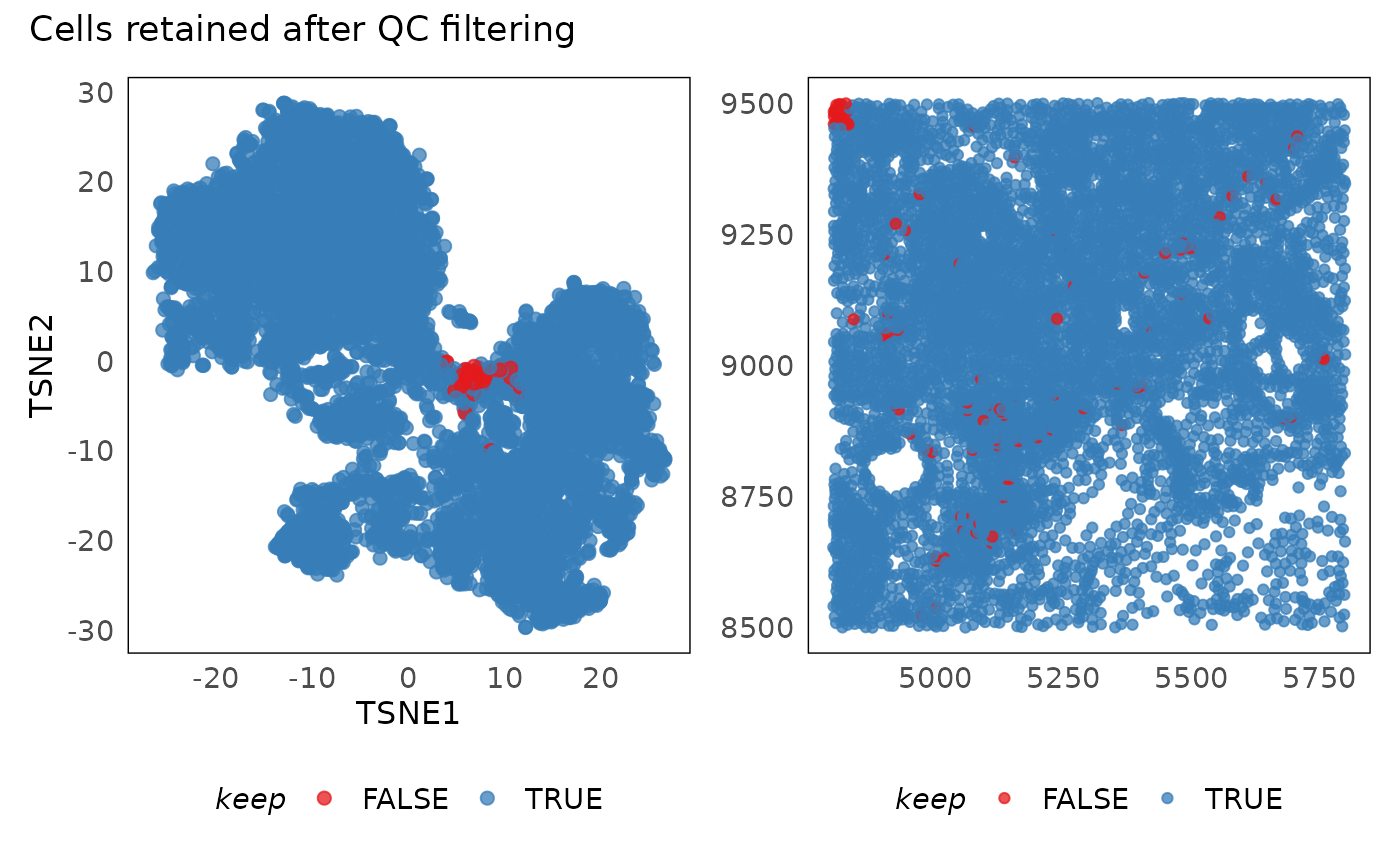
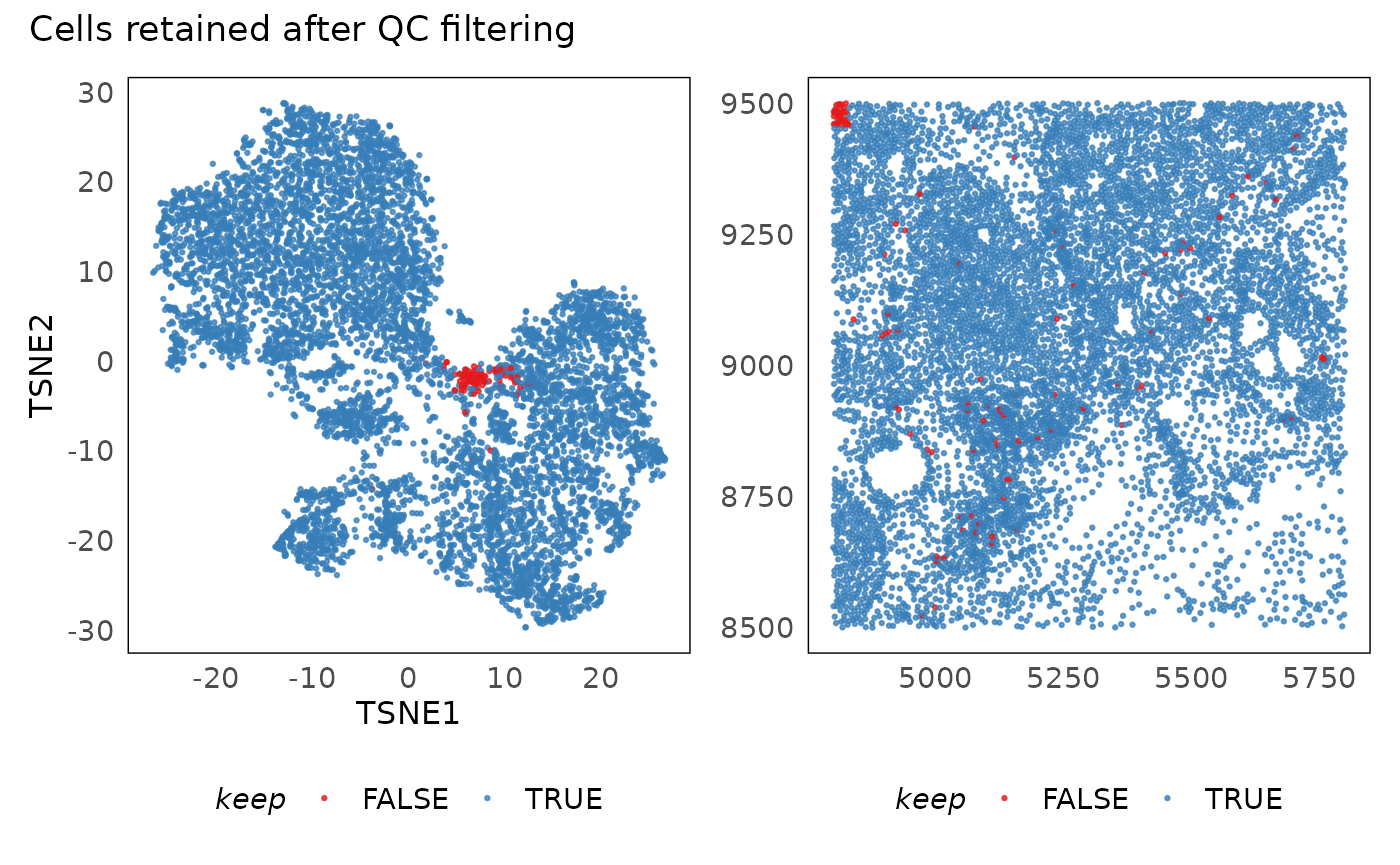
Deploying to gh-pages from @ bhuvad/XeniumSpatialAnalysisWorkshop@5bf16d5a921d2b34351f34f19f630a36b05e63fe 🚀

diff --git a/articles/workflow_spatial_xenium.html b/articles/workflow_spatial_xenium.html
@@ -82,12 +82,15 @@ transcriptomics analysis (10x Xenium breast cancer)</h1>
                         <h4 data-toc-skip class="author">Dharmesh D.
 Bhuva</h4>
             <address class="author_afil">
-      truetruetrue<br><a class="author_email" href="mailto:#"></a><a href="mailto:dharmesh.bhuva@adelaide.edu.au" class="email">dharmesh.bhuva@adelaide.edu.au</a>
+      SAiGENCI, The University of AdelaideSouth Australian Health and
+Medical Research Institute (SAHMRI)Walter and Eliza Hall
+Institute<br><a class="author_email" href="mailto:#"></a><a href="mailto:dharmesh.bhuva@adelaide.edu.au" class="email">dharmesh.bhuva@adelaide.edu.au</a>
       </address>
                               <h4 data-toc-skip class="author">Chin Wee
 Tan</h4>
             <address class="author_afil">
-      truetrue<br><a class="author_email" href="mailto:#"></a><a href="mailto:cwtan@wehi.edu.au" class="email">cwtan@wehi.edu.au</a>
+      Walter and Eliza Hall InstituteThe University of
+Melbourne<br><a class="author_email" href="mailto:#"></a><a href="mailto:cwtan@wehi.edu.au" class="email">cwtan@wehi.edu.au</a>
       </address>
                   
             <h4 data-toc-skip class="date">Nov 2024</h4>
@@ -98,10 +101,6 @@ Tan</h4>
     </div>
 
     
-        <div class="abstract">
-      <p class="abstract">Abstract</p>
-      <p>Abstract</p>
-    </div>
     
 <p>
 </p>
@@ -121,7 +120,7 @@ version</strong>: 0.99.0</p>
 <h2 id="loading-prepared-the-data">Loading prepared the data<a class="anchor" aria-label="anchor" href="#loading-prepared-the-data"></a>
 </h2>
 <div class="float">
-<img src="inst/extdata/full_tissue.png" alt="Full IDC"><div class="figcaption">Full IDC</div>
+<img src="https://raw.githubusercontent.com/bhuvad/XeniumSpatialAnalysisWorkshop/refs/heads/main/inst/extdata/full_tissue.png" alt="Full IDC"><div class="figcaption">Full IDC</div>
 </div>
 <p>x coordinate is in the interval (4800, 5800) and the y coordinate is
 in the interval (8500, 9500)</p>
@@ -210,7 +209,9 @@ in the interval (8500, 9500)</p>
 <span><span class="co">## THY1           .          .          .          .          1</span></span>
 <span><span class="co">## CXCR4          1          .          .          .          .</span></span></code></pre>
 <div class="sourceCode" id="cb11"><pre class="downlit sourceCode r">
-<code class="sourceCode R"><span><span class="fu">plotSpatial</span><span class="op">(</span><span class="va">idc</span>, colour <span class="op">=</span> <span class="va">region</span><span class="op">)</span> <span class="op">+</span></span>
+<code class="sourceCode R"><span><span class="co"># set default point size to 0.5 for this report</span></span>
+<span><span class="fu">update_geom_defaults</span><span class="op">(</span>geom <span class="op">=</span> <span class="st">"point"</span>, new <span class="op">=</span> <span class="fu"><a href="https://rdrr.io/r/base/list.html" class="external-link">list</a></span><span class="op">(</span>size <span class="op">=</span> <span class="fl">0.5</span><span class="op">)</span><span class="op">)</span></span>
+<span><span class="fu">plotSpatial</span><span class="op">(</span><span class="va">idc</span>, colour <span class="op">=</span> <span class="va">region</span><span class="op">)</span> <span class="op">+</span></span>
 <span>  <span class="fu">scale_colour_brewer</span><span class="op">(</span>palette <span class="op">=</span> <span class="st">"Dark2"</span><span class="op">)</span></span></code></pre></div>
 <p><img src="workflow_spatial_xenium_files/figure-html/unnamed-chunk-2-1.png" width="700"></p>
 <p>For users interested in analysing the whole dataset, it can be
@@ -332,7 +333,7 @@ poor quality. As such, we can start with these thresholds and adjust
 based on other metrics and visualisations.</p>
 <div class="sourceCode" id="cb18"><pre class="downlit sourceCode r">
 <code class="sourceCode R"><span><span class="co"># t-SNE plot</span></span>
-<span><span class="va">p1</span> <span class="op">=</span> <span class="fu">plotDR</span><span class="op">(</span><span class="va">idc</span>, dimred <span class="op">=</span> <span class="st">"TSNE"</span>, colour <span class="op">=</span> <span class="va">sum</span>, alpha <span class="op">=</span> <span class="fl">0.75</span><span class="op">)</span> <span class="op">+</span></span>
+<span><span class="va">p1</span> <span class="op">=</span> <span class="fu">plotDR</span><span class="op">(</span><span class="va">idc</span>, dimred <span class="op">=</span> <span class="st">"TSNE"</span>, colour <span class="op">=</span> <span class="va">sum</span>, alpha <span class="op">=</span> <span class="fl">0.75</span>, size <span class="op">=</span> <span class="fl">0.5</span><span class="op">)</span> <span class="op">+</span></span>
 <span>  <span class="fu">scale_colour_viridis_c</span><span class="op">(</span>option <span class="op">=</span> <span class="st">"F"</span><span class="op">)</span> <span class="op">+</span></span>
 <span>  <span class="fu">labs</span><span class="op">(</span>x <span class="op">=</span> <span class="st">"TSNE1"</span>, y <span class="op">=</span> <span class="st">"TSNE2"</span><span class="op">)</span> <span class="op">+</span></span>
 <span>  <span class="fu">theme</span><span class="op">(</span>legend.position <span class="op">=</span> <span class="st">"bottom"</span><span class="op">)</span></span>
@@ -344,7 +345,7 @@ based on other metrics and visualisations.</p>
 <p><img src="workflow_spatial_xenium_files/figure-html/unnamed-chunk-8-1.png" width="700"></p>
 <div class="sourceCode" id="cb19"><pre class="downlit sourceCode r">
 <code class="sourceCode R"><span><span class="co"># t-SNE plot</span></span>
-<span><span class="va">p1</span> <span class="op">=</span> <span class="fu">plotDR</span><span class="op">(</span><span class="va">idc</span>, dimred <span class="op">=</span> <span class="st">"TSNE"</span>, colour <span class="op">=</span> <span class="va">detected</span>, alpha <span class="op">=</span> <span class="fl">0.75</span><span class="op">)</span> <span class="op">+</span></span>
+<span><span class="va">p1</span> <span class="op">=</span> <span class="fu">plotDR</span><span class="op">(</span><span class="va">idc</span>, dimred <span class="op">=</span> <span class="st">"TSNE"</span>, colour <span class="op">=</span> <span class="va">detected</span>, alpha <span class="op">=</span> <span class="fl">0.75</span>, size <span class="op">=</span> <span class="fl">0.5</span><span class="op">)</span> <span class="op">+</span></span>
 <span>  <span class="fu">scale_colour_viridis_c</span><span class="op">(</span>option <span class="op">=</span> <span class="st">"F"</span><span class="op">)</span> <span class="op">+</span></span>
 <span>  <span class="fu">labs</span><span class="op">(</span>x <span class="op">=</span> <span class="st">"TSNE1"</span>, y <span class="op">=</span> <span class="st">"TSNE2"</span><span class="op">)</span> <span class="op">+</span></span>
 <span>  <span class="fu">theme</span><span class="op">(</span>legend.position <span class="op">=</span> <span class="st">"bottom"</span><span class="op">)</span></span>
@@ -356,7 +357,7 @@ based on other metrics and visualisations.</p>
 <p><img src="workflow_spatial_xenium_files/figure-html/unnamed-chunk-9-1.png" width="700"></p>
 <div class="sourceCode" id="cb20"><pre class="downlit sourceCode r">
 <code class="sourceCode R"><span><span class="co"># t-SNE plot</span></span>
-<span><span class="va">p1</span> <span class="op">=</span> <span class="fu">plotDR</span><span class="op">(</span><span class="va">idc</span>, dimred <span class="op">=</span> <span class="st">"TSNE"</span>, colour <span class="op">=</span> <span class="va">qv</span>, alpha <span class="op">=</span> <span class="fl">0.75</span><span class="op">)</span> <span class="op">+</span></span>
+<span><span class="va">p1</span> <span class="op">=</span> <span class="fu">plotDR</span><span class="op">(</span><span class="va">idc</span>, dimred <span class="op">=</span> <span class="st">"TSNE"</span>, colour <span class="op">=</span> <span class="va">qv</span>, alpha <span class="op">=</span> <span class="fl">0.75</span>, size <span class="op">=</span> <span class="fl">0.5</span><span class="op">)</span> <span class="op">+</span></span>
 <span>  <span class="fu">scale_colour_viridis_c</span><span class="op">(</span>option <span class="op">=</span> <span class="st">"F"</span><span class="op">)</span> <span class="op">+</span></span>
 <span>  <span class="fu">labs</span><span class="op">(</span>x <span class="op">=</span> <span class="st">"TSNE1"</span>, y <span class="op">=</span> <span class="st">"TSNE2"</span><span class="op">)</span> <span class="op">+</span></span>
 <span>  <span class="fu">theme</span><span class="op">(</span>legend.position <span class="op">=</span> <span class="st">"bottom"</span><span class="op">)</span></span>
@@ -368,7 +369,7 @@ based on other metrics and visualisations.</p>
 <p><img src="workflow_spatial_xenium_files/figure-html/unnamed-chunk-10-1.png" width="700"></p>
 <div class="sourceCode" id="cb21"><pre class="downlit sourceCode r">
 <code class="sourceCode R"><span><span class="co"># t-SNE plot</span></span>
-<span><span class="va">p1</span> <span class="op">=</span> <span class="fu">plotDR</span><span class="op">(</span><span class="va">idc</span>, dimred <span class="op">=</span> <span class="st">"TSNE"</span>, colour <span class="op">=</span> <span class="va">overlaps_nucleus</span>, alpha <span class="op">=</span> <span class="fl">0.75</span><span class="op">)</span> <span class="op">+</span></span>
+<span><span class="va">p1</span> <span class="op">=</span> <span class="fu">plotDR</span><span class="op">(</span><span class="va">idc</span>, dimred <span class="op">=</span> <span class="st">"TSNE"</span>, colour <span class="op">=</span> <span class="va">overlaps_nucleus</span>, alpha <span class="op">=</span> <span class="fl">0.75</span>, size <span class="op">=</span> <span class="fl">0.5</span><span class="op">)</span> <span class="op">+</span></span>
 <span>  <span class="fu">scale_colour_viridis_c</span><span class="op">(</span>option <span class="op">=</span> <span class="st">"F"</span><span class="op">)</span> <span class="op">+</span></span>
 <span>  <span class="fu">labs</span><span class="op">(</span>x <span class="op">=</span> <span class="st">"TSNE1"</span>, y <span class="op">=</span> <span class="st">"TSNE2"</span><span class="op">)</span> <span class="op">+</span></span>
 <span>  <span class="fu">theme</span><span class="op">(</span>legend.position <span class="op">=</span> <span class="st">"bottom"</span><span class="op">)</span></span>
@@ -398,7 +399,7 @@ under- filtering.</p>
 <span><span class="va">idc</span><span class="op">$</span><span class="va">keep</span> <span class="op">=</span> <span class="va">idc</span><span class="op">$</span><span class="va">sum</span> <span class="op">&gt;</span> <span class="va">thresh_sum</span> <span class="op">&amp;</span> <span class="va">idc</span><span class="op">$</span><span class="va">detected</span> <span class="op">&gt;</span> <span class="va">thresh_detected</span></span>
 <span></span>
 <span><span class="co"># t-SNE plot</span></span>
-<span><span class="va">p1</span> <span class="op">=</span> <span class="fu">plotDR</span><span class="op">(</span><span class="va">idc</span>, dimred <span class="op">=</span> <span class="st">"TSNE"</span>, colour <span class="op">=</span> <span class="va">keep</span>, alpha <span class="op">=</span> <span class="fl">0.75</span><span class="op">)</span> <span class="op">+</span></span>
+<span><span class="va">p1</span> <span class="op">=</span> <span class="fu">plotDR</span><span class="op">(</span><span class="va">idc</span>, dimred <span class="op">=</span> <span class="st">"TSNE"</span>, colour <span class="op">=</span> <span class="va">keep</span>, alpha <span class="op">=</span> <span class="fl">0.75</span>, size <span class="op">=</span> <span class="fl">0.5</span><span class="op">)</span> <span class="op">+</span></span>
 <span>  <span class="fu">scale_color_brewer</span><span class="op">(</span>palette <span class="op">=</span> <span class="st">"Set1"</span><span class="op">)</span> <span class="op">+</span></span>
 <span>  <span class="fu">labs</span><span class="op">(</span>x <span class="op">=</span> <span class="st">"TSNE1"</span>, y <span class="op">=</span> <span class="st">"TSNE2"</span><span class="op">)</span> <span class="op">+</span></span>
 <span>  <span class="fu">theme</span><span class="op">(</span>legend.position <span class="op">=</span> <span class="st">"bottom"</span><span class="op">)</span></span>
@@ -466,7 +467,7 @@ spatial dependence to decouple technical and biological effects. SpaNorm
 uses a spatially constrained regularised generalised linear model to
 model library size effects and subsequently adjust the data.</p>
 <div class="float">
-<img src="https://github.com/bhuvad/SpaNorm/blob/master/vignettes/SpaNormWorkflow.png" alt="SpaNorm schematic"><div class="figcaption">SpaNorm schematic</div>
+<img src="https://raw.githubusercontent.com/bhuvad/SpaNorm/refs/heads/master/vignettes/SpaNormWorkflow.png" alt="SpaNorm schematic"><div class="figcaption">SpaNorm schematic</div>
 </div>
 <p>The key parameters for SpaNorm normalisation that need to be adjusted
 are:</p>
@@ -633,7 +634,7 @@ variation is minimal within this range.</li>
 <span><span class="va">idc</span> <span class="op">=</span> <span class="fu">Banksy</span><span class="fu">::</span><span class="fu"><a href="https://rdrr.io/pkg/Banksy/man/clusterBanksy.html" class="external-link">clusterBanksy</a></span><span class="op">(</span><span class="va">idc</span>, lambda <span class="op">=</span> <span class="va">lambda</span>, npcs <span class="op">=</span> <span class="va">npcs</span>, resolution <span class="op">=</span> <span class="va">res</span><span class="op">)</span></span>
 <span></span>
 <span><span class="fu">plotSpatial</span><span class="op">(</span><span class="va">idc</span>, colour <span class="op">=</span> <span class="va">clust_M0_lam0.2_k50_res0.8</span>, alpha <span class="op">=</span> <span class="fl">0.75</span><span class="op">)</span> <span class="op">+</span></span>
-<span>  <span class="fu">scale_colour_brewer</span><span class="op">(</span>palette <span class="op">=</span> <span class="st">"Paired"</span>, na.value <span class="op">=</span> <span class="st">"#333333"</span><span class="op">)</span> <span class="op">+</span></span>
+<span>  <span class="fu">scale_colour_brewer</span><span class="op">(</span>palette <span class="op">=</span> <span class="st">"Paired"</span>, na.value <span class="op">=</span> <span class="st">"#333333"</span>, name <span class="op">=</span> <span class="st">"cluster"</span><span class="op">)</span> <span class="op">+</span></span>
 <span>  <span class="fu">ggtitle</span><span class="op">(</span><span class="st">"Mean from SpaNorm model"</span><span class="op">)</span> <span class="op">+</span></span>
 <span>  <span class="fu">theme</span><span class="op">(</span>legend.position <span class="op">=</span> <span class="st">"bottom"</span><span class="op">)</span></span></code></pre></div>
 <p><img src="workflow_spatial_xenium_files/figure-html/unnamed-chunk-20-1.png" width="700"></p>
@@ -654,7 +655,7 @@ label manually. We also find cluster 4 which represents a boundary of
 cells surrounding invasive and DCIS lesions.</p>
 <div class="sourceCode" id="cb34"><pre class="downlit sourceCode r">
 <code class="sourceCode R"><span><span class="va">p1</span> <span class="op">=</span> <span class="fu">plotSpatial</span><span class="op">(</span><span class="va">idc</span>, colour <span class="op">=</span> <span class="va">clust_M0_lam0.2_k50_res0.8</span>, alpha <span class="op">=</span> <span class="fl">0.75</span><span class="op">)</span> <span class="op">+</span></span>
-<span>  <span class="fu">scale_colour_brewer</span><span class="op">(</span>palette <span class="op">=</span> <span class="st">"Paired"</span>, na.value <span class="op">=</span> <span class="st">"#333333"</span><span class="op">)</span> <span class="op">+</span></span>
+<span>  <span class="fu">scale_colour_brewer</span><span class="op">(</span>palette <span class="op">=</span> <span class="st">"Paired"</span>, na.value <span class="op">=</span> <span class="st">"#333333"</span>, name <span class="op">=</span> <span class="st">"cluster"</span><span class="op">)</span> <span class="op">+</span></span>
 <span>  <span class="fu">ggtitle</span><span class="op">(</span><span class="st">"Mean from SpaNorm model"</span><span class="op">)</span> <span class="op">+</span></span>
 <span>  <span class="fu">guides</span><span class="op">(</span>colour <span class="op">=</span> <span class="fu">guide_legend</span><span class="op">(</span>nrow <span class="op">=</span> <span class="fl">3</span><span class="op">)</span><span class="op">)</span> <span class="op">+</span></span>
 <span>  <span class="fu">theme</span><span class="op">(</span>legend.position <span class="op">=</span> <span class="st">"bottom"</span><span class="op">)</span></span>
